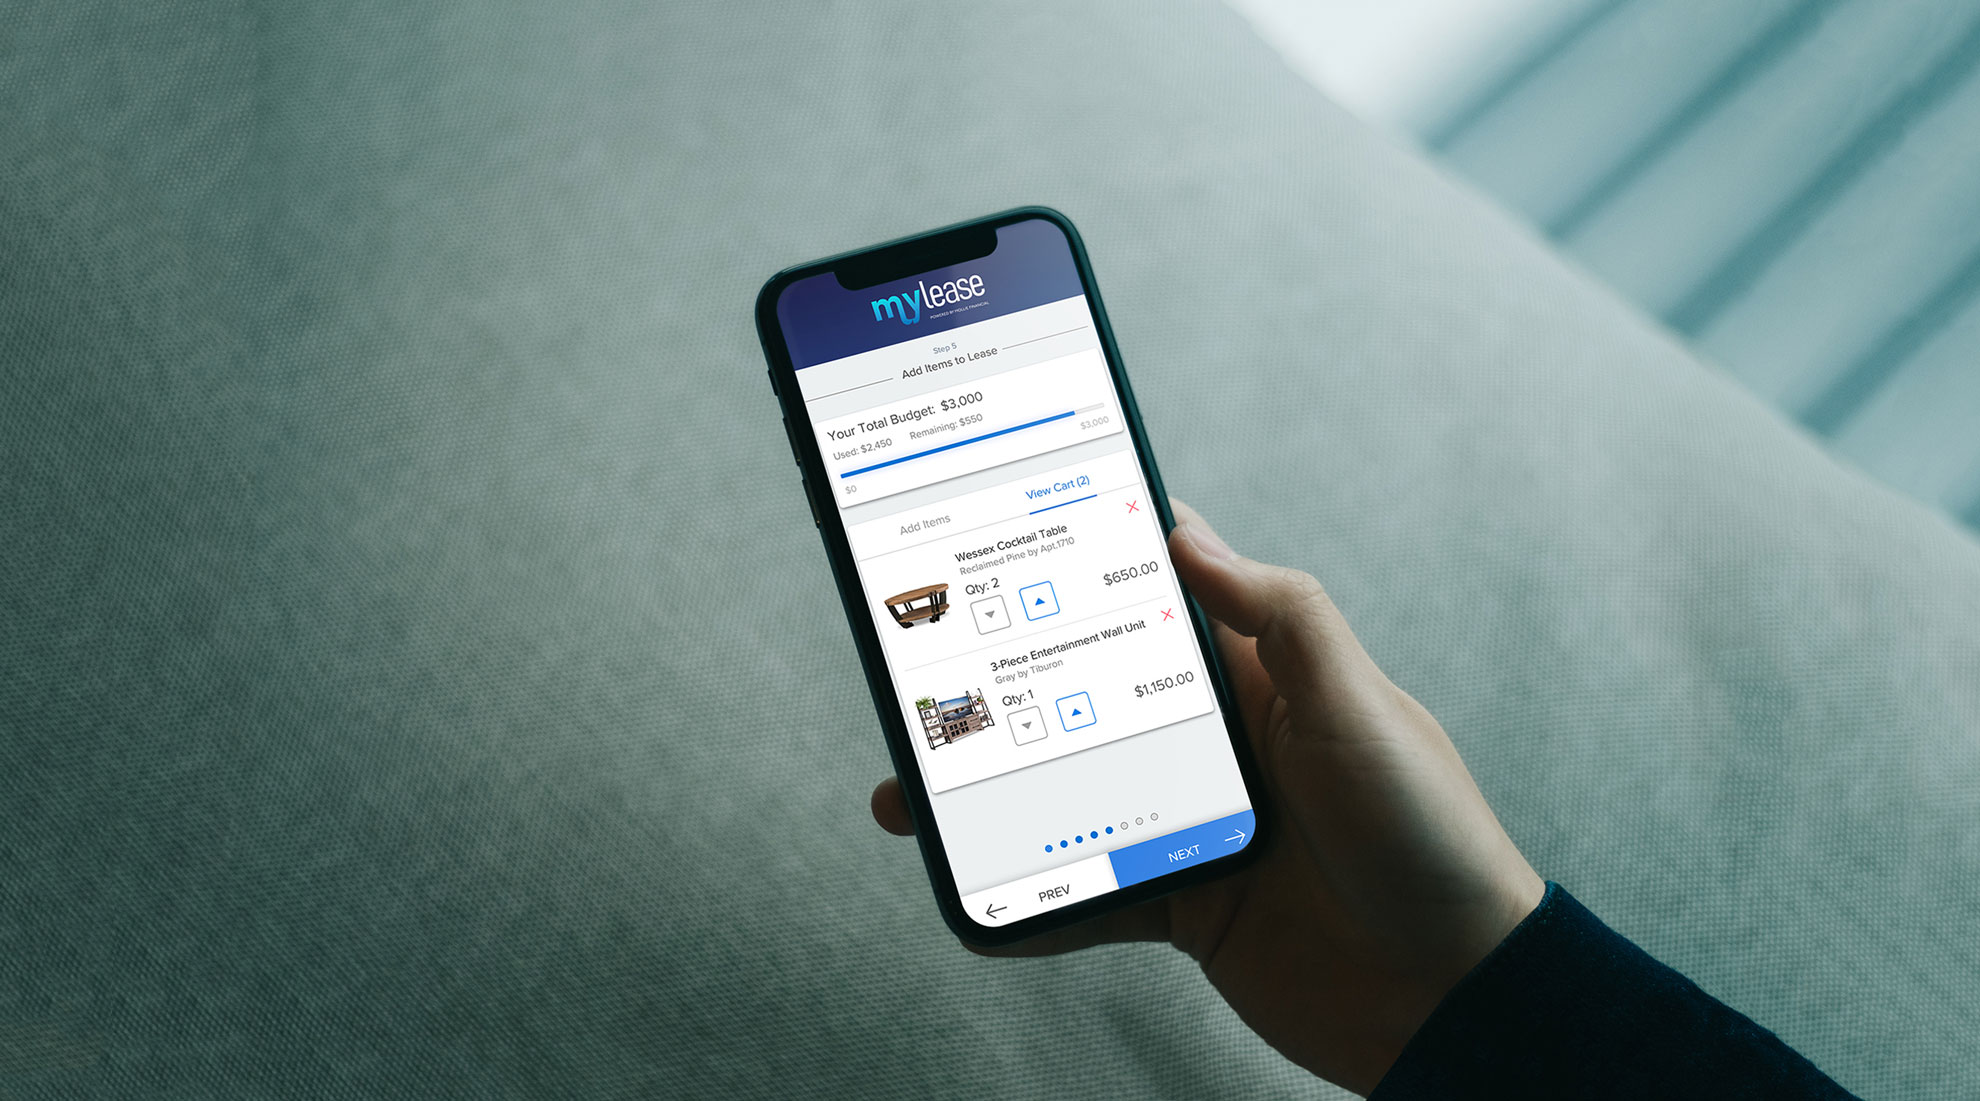
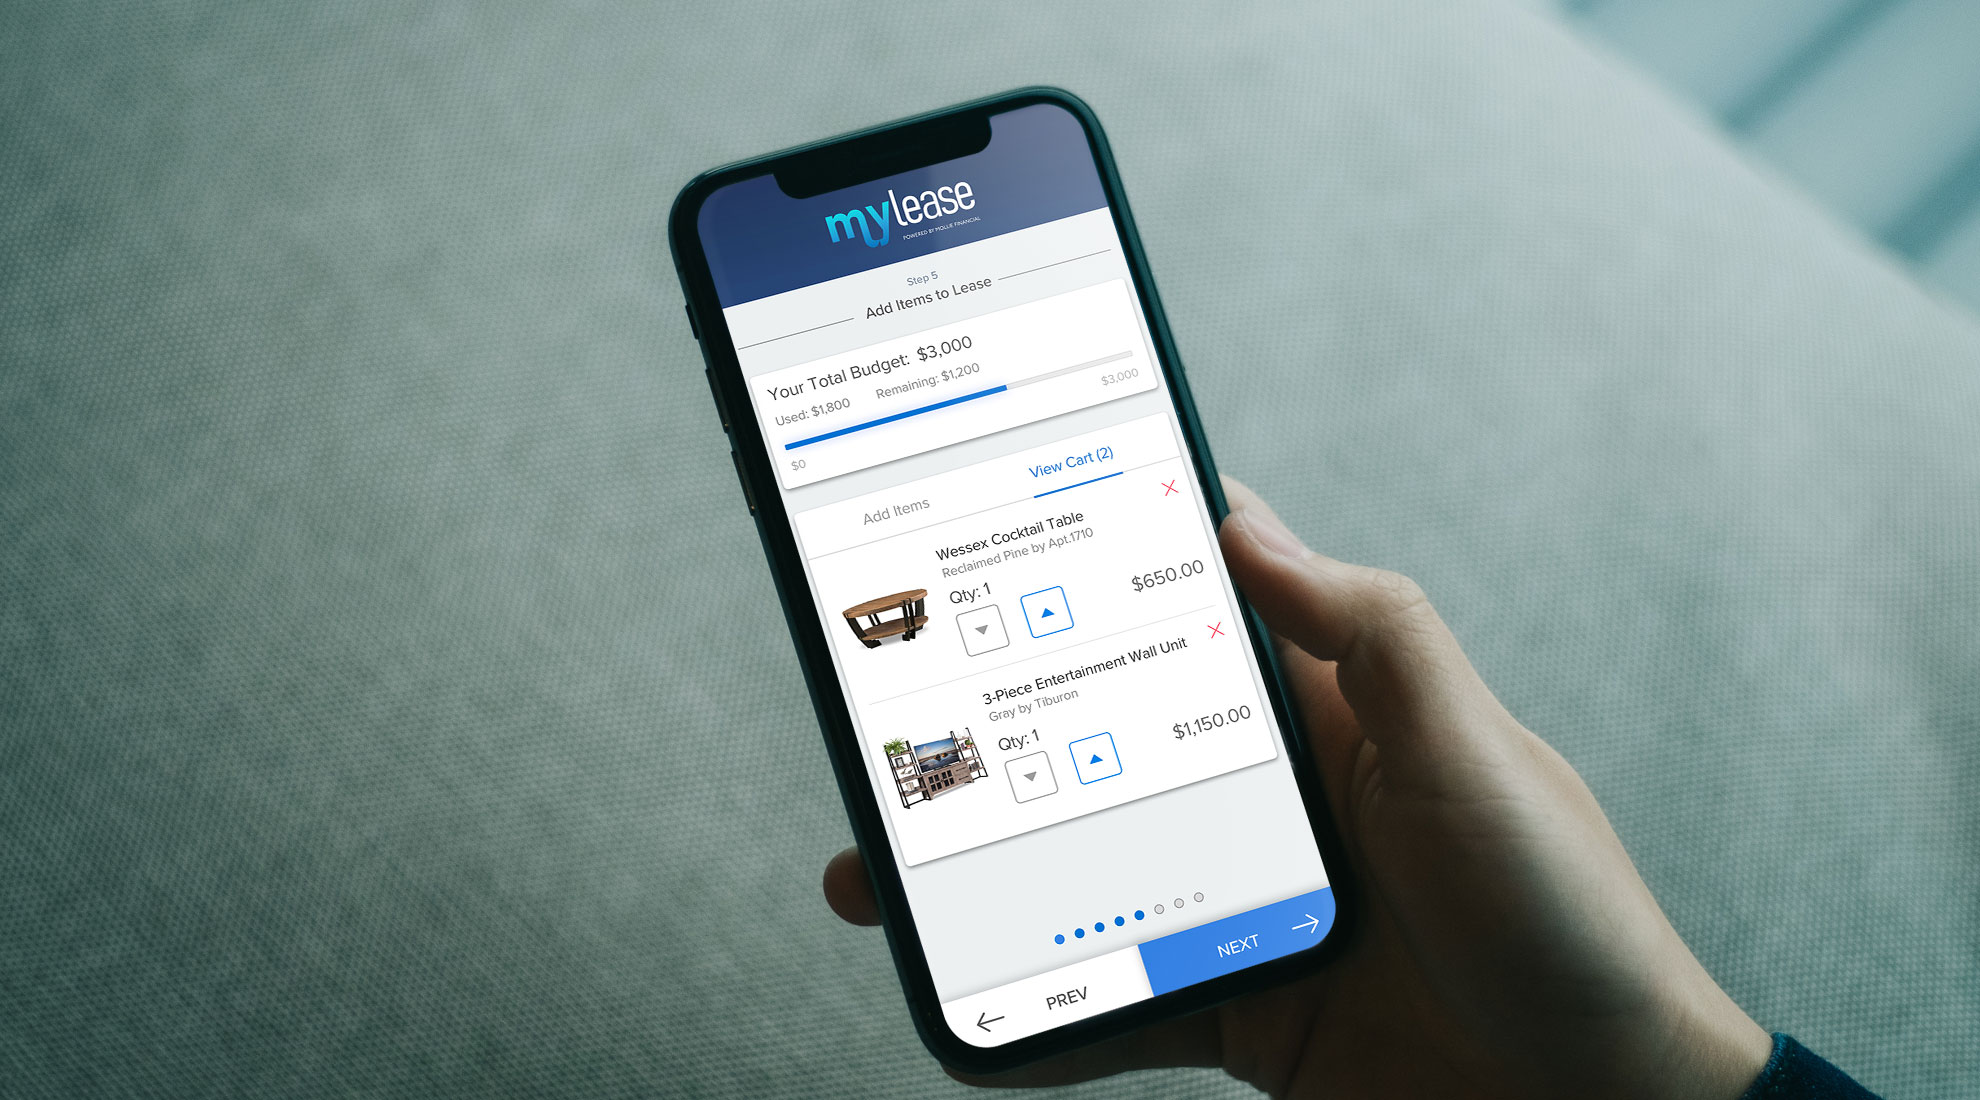
Edit Header Image Mylease

diff --git a/public/index.html b/public/index.html
@@ -177,7 +177,7 @@
         <div class="portfolio-media do-anim-modern">
           <a href="mylease" class="thumb-hover overlay-color-custom text-light no-scale">
             <span class="overlay" style="background: rgba(0,0,0,0.5);"></span>
-            <img class="lazy" src="#" data-src="files/uploads//img/mylease/mylease_cart_iphone2.jpg" width="1200" height="800" alt="MyLease UI/UX" />
+            <img class="lazy" src="#" data-src="files/uploads//img/mylease/mylease_cart_iphone3.jpg" width="1200" height="800" alt="MyLease UI/UX" />
             <div class="overlay-caption bottom align-left caption-light">
               <span class="caption-sub portfolio-category">UI/UX</span>
               <h4 class="caption-name portfolio-name"><strong>Mylease</strong></h4>

diff --git a/public/mylease.html b/public/mylease.html
@@ -110,7 +110,7 @@
 <div id="hero-and-body">
 
   <!-- HERO  -->
-  <section id="hero" class="hero-fullscreen parallax-section text-light" data-parallax-image="files/uploads/img/mylease/large_mylease_cart_iphone_4.jpg">
+  <section id="hero" class="hero-fullscreen parallax-section text-light" data-parallax-image="files/uploads/img/mylease/large_mylease_cart_iphone_3.jpg">
 
   </section>
   <!-- HERO -->
